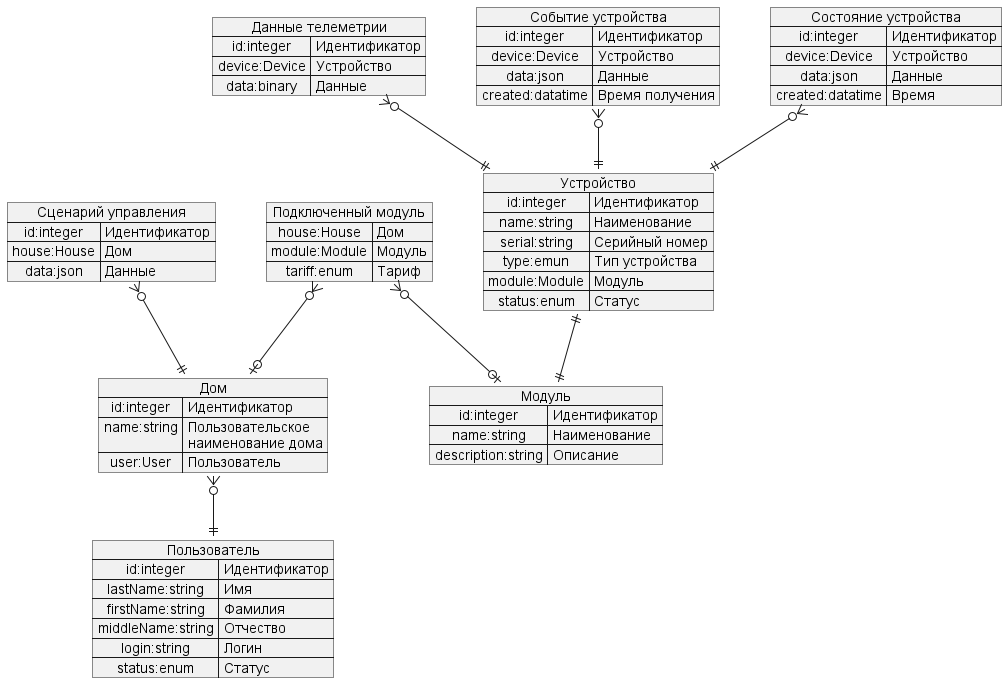
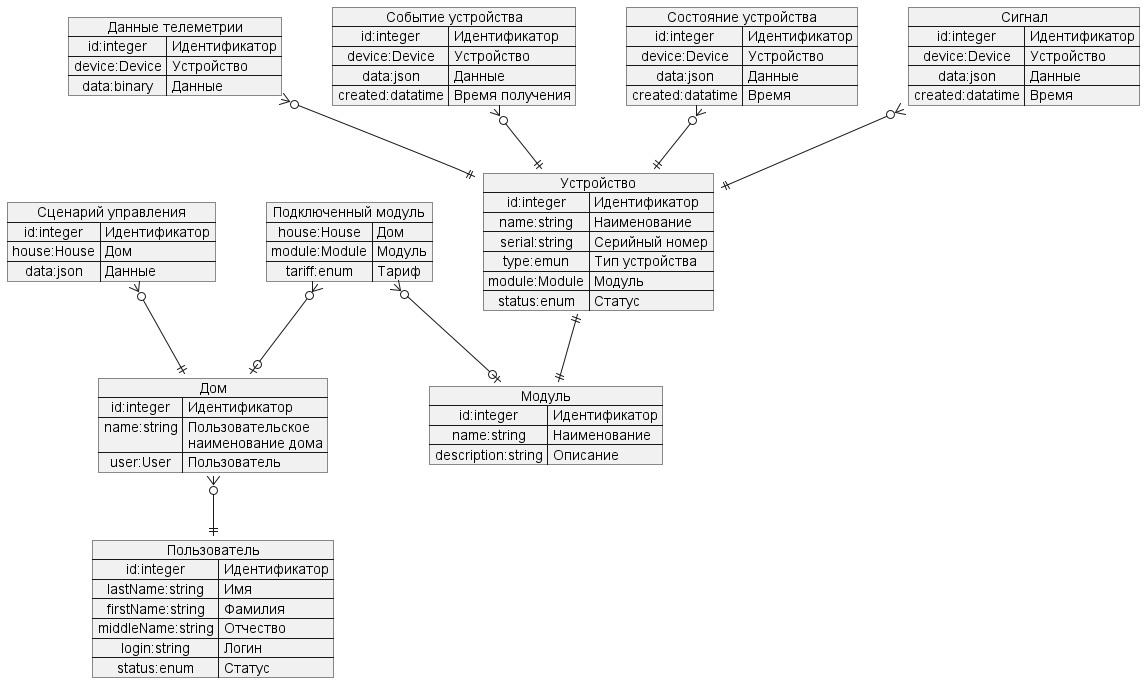
1.4

diff --git a/README.md b/README.md
@@ -105,9 +105,27 @@ _Подзадание 1.2_
 
 ![Базовый процесс взаимодействия системы и устройств](./arch/main_flow_to_be.png)
 
+---
+
+_Подзадание 1.3_
+
+---
+
 ### Предметная область
 
 Проанализирована предметная область. Определены ключевые сущности.
 Спроектирована логическая модель данных на базе ключевых сущности и их взаимосвязи.
 
 ![ER](./arch/er.png)
+
+---
+
+_Подзадание 1.4_
+
+---
+
+### API ассинхронного взаимодействия
+
+Подготовлена спецификация ассинхронного взаимодействия микросервисов через брокер сообщений Kafka
+
+[asyncapi](./arch/asyncapi.yml)
